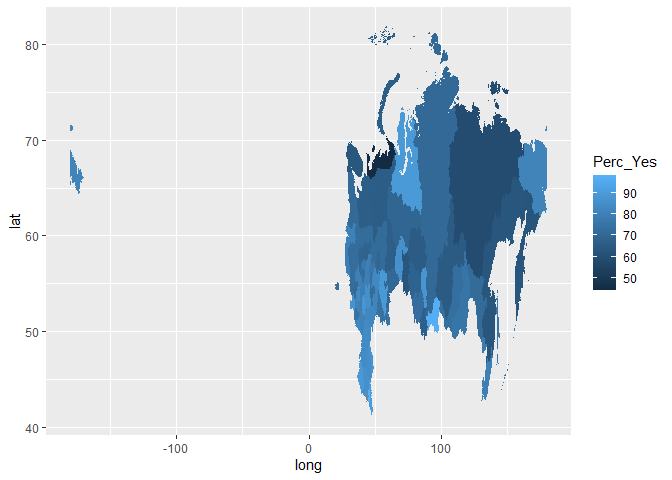
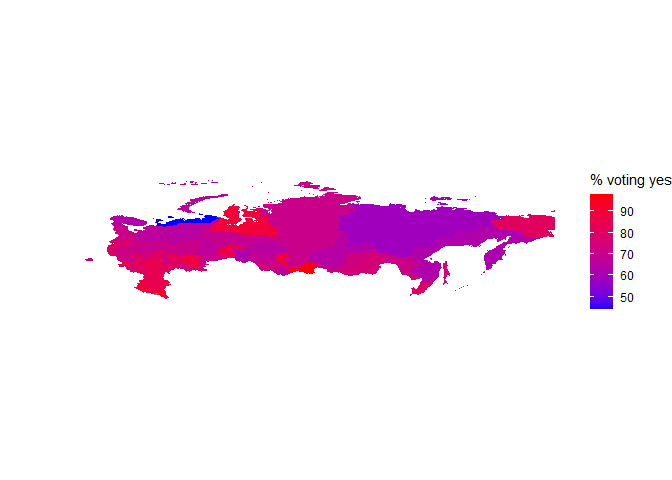
fidded with the map

diff --git a/README.md b/README.md
@@ -2,7 +2,7 @@
 ================
 Andi (<almost@gmail.com>,
 @[inductivestep](https://twitter.com/InductiveStep))
-05 July 2020
+06 July 2020
 
 Using `rvest` to parse the 2020 Russian constitutional referendum
 results from Wikipedia and do some sums. (To be continued…)
@@ -19,7 +19,7 @@ library(kableExtra)
 ### Read in the data
 
 ``` r
-wp_page <- read_html("https://en.wikipedia.org/wiki/2020_Russian_constitutional_referendum")
+wp_page <- read_html("https://en.wikipedia.org/w/index.php?title=2020_Russian_constitutional_referendum&oldid=966242800")
 ```
 
 ### Grab the table
@@ -2783,10 +2783,16 @@ ru_df_vals$region <- ru_df_vals$id # to prevent a message later...
 ggplot(ru_df_vals, aes(long, lat)) +
   geom_map(map=ru_df_vals,
            aes(map_id=id, fill=Perc_Yes),
-           show.legend = T)
+           show.legend = T) +
+  coord_equal() +
+  xlim(0,NA) + 
+  theme_void() +
+  labs(fill = "% voting yes") +
+  scale_fill_gradient(low = "blue", high = "red")
 ```
 
 ![](README_files/figure-gfm/unnamed-chunk-30-1.png)<!-- -->
 
-It’s distorted, the colour scale is unhelpful, and it doesn’t know that
-the planet is a sphere. But it’s a start.
+It feels distorted, needs better colours, and doesn’t know that the
+planet is a sphere (there’s a chunk of eastern Russia lopped off). But
+it’s a start.
